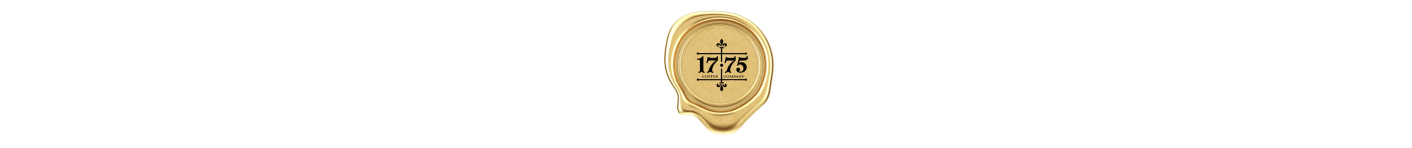
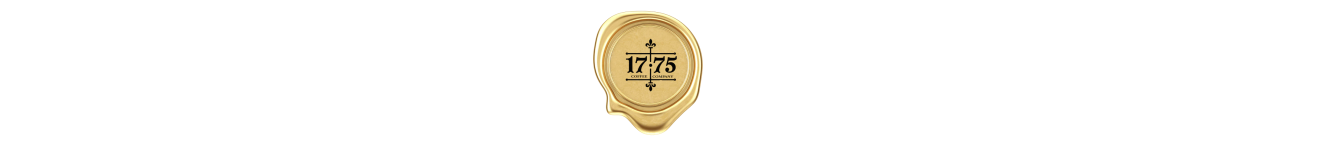
mob fix

Changed region(s): [[0.428, 0.0541, 0.5503, 0.9189]]

diff --git a/css/custom.css b/css/custom.css
@@ -32,7 +32,8 @@
       background-position: center top;
       background-repeat: no-repeat;
       background-size: cover;
-      height: 10%;
+      max-height: 5%;
+      min-height: 0!important;
     }
   }
 
